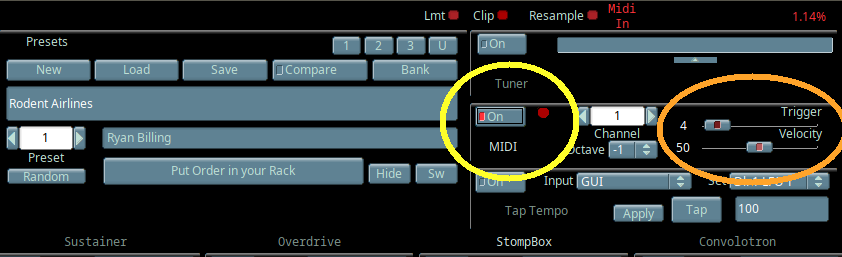
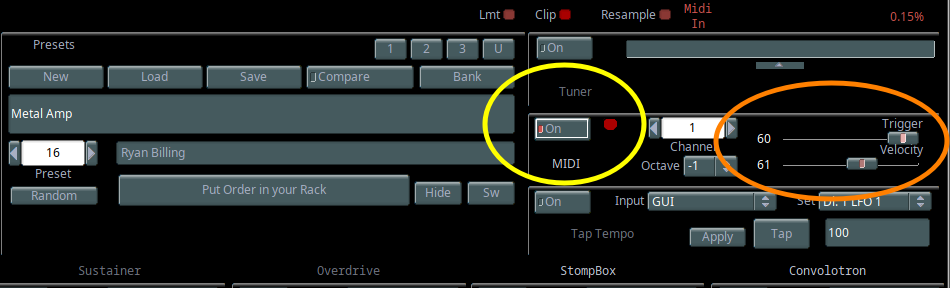
Update

diff --git a/doc/help/haiku.html b/doc/help/haiku.html
@@ -17,50 +17,36 @@
 
 <h2>Haiku Hardware / MIDI / MISC Settings</h2>
 
-<p>Rakarrack Haiku offers the user the option to set Sample Rate (Hz) and
-Buffer Size (Frames).  These settings work optimally if realtime audio is enabled. 
+<p>Rakarrack for Haiku auto detects the users frequency and automatically applies the correct Buffer Size (Frames) inside rakarrack on first run. <br>
+However, for the best experience with rakarrack on Haiku, real-time audio should be enabled and a frequency of 48khz or lower.<br>
+Setting a frequency higher than 48khz will still work in some cases, but some effects like reverb are currently known to crash rakarrack.<br>
 To enable realtime audio, you would first check if your audio card has a settings file
 that is applicable for setting realtime audio, then edit it and put in /boot/home/config/settings/kernel/drivers </p>
-<p><img src="imagenes/screenshot4.png" alt="rakarrack Order Window" align="middle" border="1" height="484" width="600"></p>
 
 <p> You can visit <a target="_BLANK" href="https://github.com/haiku/haiku/tree/master/src/add-ons/kernel/drivers/audio">https://github.com/haiku/haiku/tree/master/src/add-ons/kernel/drivers/audio</a>
 to check if your audio card has an applicable realtime settings file.</p>
 
+
+Alternatively, you can use this app I made for Haiku that detects your audio driver and if it supports real-time audio it adds the settings file for you.<br>
+It is found here: <a href="https://github.com/ablyssx74/RealTimeGUI/releases" TARGET=_BLANK>https://github.com/ablyssx74/RealTimeGUI/releases</a>
+
+<p><img src="imagenes/screenshot4.png" alt="rakarrack Order Window" align="middle" border="1" height="484" width="600"></p>
+
+
+
 <p>To enable realtime audio for an HDA driver, the settings file would look similar to this:</p>
 <pre>
-# Settings file for the HDA driver
-#
-#  This file should be moved to the directory
-#  ~/config/settings/kernel/drivers/
-#  Uncomment and edit any of the setting lines you wish to set.
-#  The values shown are just the defaults.
-#  Don't uncomment any that you don't need to differ from the default.
+	# Settings file for the HDA driver
 
-#  Remember that latency will probably be at least
-#   2*buffer_frames/sample_rate
-#  For real time audio, a buffer of 1024 frames at 192000
-#  should be good (<15ms).
-#  You will need more buffers if they're small.
-#  e.g.:
-#     play_buffer_frames	1024
-#     play_buffer_count	4
+	# For 48khz this works really well
+	play_buffer_frames	128
+	play_buffer_count	4
 
-###########################################################
+	record_buffer_frames	128
+	record_buffer_count	4
 
-#play_buffer_frames	512
-#play_buffer_count	4
-
-#record_buffer_frames	512
-#record_buffer_count	4
-
-# Just uncomment this four lines and restart Media Server
-# To enable realtime audio
-
-#play_buffer_frames	1024  
-#play_buffer_count	2
- 
-#record_buffer_frames	1024
-#record_buffer_count	2
+	# If clicking a popping are heard
+	# Increase buffer_count would be first choice before changing buffer_frames	
 
 </pre>
 
@@ -72,7 +58,7 @@ to check if your audio card has an applicable realtime settings file.</p>
 <p><img src="imagenes/screenshot6.png" alt="rakarrack Order Window" align="middle" border="1" height="484" width="600"></p>
 
 <p>Once rakarrack-out is checked in MidiSynth then you would enable the MIDI playback in the main rakarrack control board ( yellow circle ).
-<p>Trigger should be kept low as seen in the orange circult.  Velocity currently does not work.</p>
+<p>Trigger should be kept high in most cases for lower sensitivity.  Velocity currently does nothing.</p>
 <p><img src="imagenes/screenshot8.png" alt="rakarrack Order Window" align="middle" border="1" height="200" width="600"></p>
 
 
@@ -90,5 +76,15 @@ to check if your audio card has an applicable realtime settings file.</p>
 <p>Rakarrack Haiku supports Online Version Checking.  New updates will show a notification if available.  
 You can toggle this option off in Misc tab menu.</p>
 <p><img src="imagenes/screenshot5.png" alt="rakarrack Order Window" align="middle" border="1" height="484" width="600"></p>
+
+<p>Rakarrack Haiku has an experimental Haiku Native version called Haikurack. <br>
+Some feature may not work and / or crash.   
+You can try Haikurack by running:</p>
+<pre>
+	# Open Terminal and type:
+	rakarrack -H
+</pre>
+<p><img src="imagenes/haikurack.png" alt="rakarrack Order Window" align="middle" border="1" height="484" width="600"></p>
 <p><a href="help.html">Table of Contents</a> -  <a href="hardware.html">Hardware Connections</a></p>
+
 </body></html>

diff --git a/src/main.C b/src/main.C
@@ -25,6 +25,7 @@
 */
 #include <app/Looper.h>
 #include <app/Application.h>
+#include <MessageQueue.h>
 
 #include <signal.h>
 #include <unistd.h>
@@ -204,17 +205,143 @@ show_help ()
 
 
 
+// A quit request delivered from outside the app -- Deskbar/
+// ProcessController's "Quit Application", a session shutdown, anything
+// that posts B_QUIT_REQUESTED straight to the app -- arrives here as
+// BApplication::QuitRequested(). A plain, un-subclassed BApplication (what
+// this used to be) has nowhere useful to send that on to: in --haiku mode
+// its default "true" answer would just let Run() return, fine, but in the
+// normal FLTK/headless path nothing ever called Run() at all, so the
+// message would sit in myApp's port forever, unread -- exactly the
+// reported bug ("It does nothing"). Subclassing lets this app's own quit
+// logic (gAppQuitting, the default per-window cascade) reach every mode
+// the normal way, through BLooper::Loop()'s own automatic dispatch, once
+// Run() is actually being called somewhere -- see AppThreadEntry() below
+// for where and why.
+//
+// sAppAlreadyQuit (checked in main()'s own final cleanup, far below) is
+// what actually makes the difference between "quit reaches the app but
+// the process then hangs forever after finishing every shutdown step" and
+// a clean exit: once this returns true, BLooper's own Quit() machinery
+// tears the BApplication down (on its own dedicated thread -- see
+// AppThreadEntry()) as part of the same dispatch that got us here, so
+// main()'s myApp pointer is stale from this point on. Touching it again
+// (Lock()/PostMessage(), which main()'s cleanup used to always do
+// unconditionally) is undefined behavior on an already-deleted BLooper --
+// confirmed the hard way, from a real terminal session that printed every
+// shutdown message through to "Shutdown complete." and then simply never
+// returned to the prompt.
+static bool sAppAlreadyQuit = false;
+
+class RakarrackApp : public BApplication {
+public:
+	RakarrackApp(const char* signature) : BApplication(signature) { }
+
+	virtual bool QuitRequested()
+	{
+		if (haiku_mode) {
+			// Native mode: RakarrackWindow, and (once created)
+			// OrderWindow, are real BWindows this app itself owns -- ask
+			// them the normal way. gAppQuitting (declared in
+			// rakarrack_haiku_bridge.h, defined in
+			// haiku_native/haiku-rakarrack.cpp) distinguishes this
+			// whole-app cascade from a user just closing OrderWindow on
+			// its own -- see its own QuitRequested() comment for why that
+			// distinction matters. Set before the default implementation
+			// below asks every window in turn.
+			gAppQuitting = true;
+			bool ok = BApplication::QuitRequested();
+			if (!ok) {
+				// Don't leave that flag set for next time, when it might
+				// genuinely just be that one window's own close button
+				// again.
+				gAppQuitting = false;
+				return false;
+			}
+		} else {
+			// FLTK/headless mode: the default per-window cascade above
+			// would also ask whatever BWindow(s) FLTK's own Haiku backend
+			// creates internally to render its window -- code outside
+			// this repository (libfltk.so.1.4.4), whose QuitRequested()
+			// behavior is opaque here, and (confirmed against a real
+			// repro) declines by default -- silently vetoing every
+			// external quit request, exactly the same failure pattern
+			// this app's own OrderWindow used to have (see its
+			// QuitRequested() comment), except in code this repository
+			// can't patch. Skipped outright: FLTK's own window lifecycle
+			// is driven entirely by its own event loop and the
+			// Fl::first_window() == NULL check in main()'s "while
+			// (Pexitprogram == 0)" loop, not by this cascade, so there's
+			// nothing meaningful to ask it anyway.
+		}
+
+		// Flips the flag the FLTK/headless "while (Pexitprogram == 0)"
+		// loop near the bottom of main() is already watching, and that
+		// the --haiku branch's wait_for_thread() call is a proxy for.
+		// This runs on this BApplication's own dedicated thread (see
+		// AppThreadEntry()), never the thread running that loop, so this
+		// plain global is the only thing connecting the two -- consistent
+		// with how the rest of this codebase already hands simple flags
+		// like this one across threads (e.g. Pexitprogram itself).
+		Pexitprogram = 1;
+		sAppAlreadyQuit = true;
+		return true;
+	}
+};
+
+// BApplication::Run() blocks the calling thread until the app quits, which
+// is exactly what the --haiku branch below used to do directly, as its
+// whole main loop -- but Run() is NOT safe to call on just any thread: it
+// must execute on the very thread that constructed the BApplication
+// (BLooper's own constructor locks the object for the constructing
+// thread, and BLooper::Loop(), which Run() calls straight into, asserts
+// the calling thread already holds that lock). An earlier version of this
+// fix constructed the object on main()'s own thread as before but spawned
+// only Run() itself on a separate thread -- confirmed the hard way, from a
+// real debug report, that this trips BLooper::AssertLocked()'s debugger
+// breakpoint and crashes the app before its window even appears.
+//
+// So constructing the object and calling Run() on it happen together, on
+// this one small dedicated thread, for the life of the app -- in every
+// mode. That frees main()'s own thread to do FLTK/headless setup and run
+// its own loop instead (FLTK/headless mode), or to just wait for this
+// thread to finish (--haiku mode, replacing its old direct Run() call --
+// see that branch below). sAppReadySem hands the constructed pointer back
+// to main() before it does anything that needs it (starting with
+// HaikuDetectAudioSettingsEarly() -- BMediaRoster needs a live
+// BApplication for rate detection); after that handoff this thread's
+// Run() takes over as the object's one and only owner, and every other
+// thread that still needs to reach it (the final cleanup's
+// PostMessage(B_QUIT_REQUESTED) included) does so the normal way, through
+// Lock()/Unlock(), same as always.
+static BApplication* sApp = nullptr;
+static sem_id sAppReadySem = -1;
+
+static int32
+AppThreadEntry(void*)
+{
+	sApp = new RakarrackApp("application/x-vnd.rakarrack-haiku");
+	release_sem(sAppReadySem);
+	sApp->Run();
+	return 0;
+}
+
 int
 main (int argc, char *argv[])
 {
 	BApplication* myApp = nullptr;
 
-	// Must happen before "RKR rkr;" below -- see
+	// See AppThreadEntry()'s own comment.
+	sAppReadySem = create_sem(0, "rakarrack app ready");
+	thread_id appThread = spawn_thread(AppThreadEntry, "RakarrackApp",
+		B_NORMAL_PRIORITY, nullptr);
+	resume_thread(appThread);
+	acquire_sem(sAppReadySem);
+	delete_sem(sAppReadySem);
+	myApp = sApp;
+
+	// Must happen after myApp exists -- see
 	// HaikuDetectAudioSettingsEarly()'s own comment in jack.C for why.
-	// BMediaRoster (used for rate detection) needs a running
-	// BApplication, so it's constructed here unconditionally now,
-	// instead of later inside the haiku_mode/FLTK branches.
-	myApp = new BApplication("application/x-vnd.rakarrack-haiku");
 	HaikuDetectAudioSettingsEarly();
 
 	RKR rkr;
@@ -277,9 +404,14 @@ main (int argc, char *argv[])
 
         
 		printf("[Rakarrack] Haiku Native Mode Started.\n");
-        myApp->Run();
+        // myApp->Run() itself now happens on its own dedicated thread --
+        // see AppThreadEntry()'s comment -- so this just blocks until
+        // that thread (and therefore the app) is done, the same as a
+        // direct Run() call here used to.
+        status_t appResult;
+        wait_for_thread(appThread, &appResult);
 
-        
+
     } else {
         // --- FLTK / Standard Path ---
 
@@ -330,6 +462,12 @@ main (int argc, char *argv[])
 
 
   // --- Haiku Main Loop ---
+  // Pexitprogram is also set from RakarrackApp::QuitRequested(), running
+  // on myApp's own dedicated thread (see AppThreadEntry()) -- an external
+  // B_QUIT_REQUESTED (Deskbar/ProcessController's "Quit Application", a
+  // session shutdown) reaches it there the normal way, through
+  // BLooper::Loop()'s automatic dispatch, since that thread really is
+  // running Run() now.
   while (Pexitprogram == 0) {
 
       if (gui) {
@@ -354,14 +492,21 @@ main (int argc, char *argv[])
     printf("[Rakarrack] loop ended. Cleaning up audio...\n");
     HaikuAudioShutdown();
     fflush(stdout);
-    if (myApp) {
+    // See sAppAlreadyQuit's own comment -- only still-alive here when
+    // Pexitprogram was set some other way (the FLTK window itself closing,
+    // via the Fl::first_window() == NULL check in the loop just above,
+    // without the app ever having been asked to quit), in which case
+    // myApp is presumed to still be alive and waiting on its own dedicated
+    // thread (AppThreadEntry()) -- nudge it to quit too before this
+    // process exits out from under it.
+    if (myApp && !sAppAlreadyQuit) {
 
         if (myApp->Lock()) {
             myApp->PostMessage(B_QUIT_REQUESTED);
             myApp->Unlock();
         }
     }
-  _exit(0); 
+  _exit(0);
 }
   
 

diff --git a/haiku_native/haiku-rakarrack.cpp b/haiku_native/haiku-rakarrack.cpp
@@ -74,6 +74,11 @@
 
 #include "../src/rakarrack_haiku_bridge.h"
 
+// See rakarrack_haiku_bridge.h's own comment on the declaration -- defined
+// here (not main.C) purely so every target that links this file, extra/'s
+// tiny utilities included, has a real definition without needing a weak
+// fallback for it too.
+bool gAppQuitting = false;
 
 // This "weak" function satisfies the linker for small utilities
 // like rakverb, but gets overridden by the real one in the main app.
@@ -856,8 +861,23 @@ public:
 	// still open was enough to trip it and take the whole app down.
 	// Hiding instead of quitting means this window is never subtracted
 	// from that count in the first place.
+	//
+	// BUT that "hide, refuse" answer must not be unconditional: it's also
+	// exactly what BApplication::QuitRequested()'s default implementation
+	// asks every window (this one included) when the app is asked to quit
+	// as a whole -- Deskbar/ProcessController's "Quit Application", a
+	// session shutdown, B_QUIT_REQUESTED sent straight to the app. Once
+	// this window has been created at all (a single "Effects Order..."
+	// click, any time in the session), answering "no" there every single
+	// time would permanently veto the whole app's shutdown from then on --
+	// which is the exact bug this fixes. gAppQuitting (see
+	// rakarrack_haiku_bridge.h) is set by RakarrackApp::QuitRequested() in
+	// main.C before that cascade runs, so this only refuses the narrower,
+	// original case: the user closing just this one window on its own.
 	virtual bool QuitRequested()
 	{
+		if (gAppQuitting)
+			return true;
 		Hide();
 		return false;
 	}

diff --git a/src/rakarrack_haiku_bridge.h b/src/rakarrack_haiku_bridge.h
@@ -20,5 +20,18 @@ void start_haiku_native_interface(void* rkr_ptr);
 }
 #endif
 
+// Set (by RakarrackApp::QuitRequested() in main.C) before the app-wide
+// quit cascade asks every window -- including native mode's OrderWindow,
+// see its own QuitRequested() override in haiku_native/haiku-rakarrack.cpp
+// -- whether it agrees to quit. Distinguishes an external/whole-app quit
+// (Deskbar/ProcessController's "Quit Application", a session shutdown,
+// B_QUIT_REQUESTED sent straight to the app) from the user just closing
+// that one window on its own, which should still only hide it. Defined in
+// haiku-rakarrack.cpp (linked into every target, including the small
+// extra/ utilities main.C itself never reaches), declared here so both
+// translation units agree on its type without needing a weak-symbol
+// fallback for it.
+extern bool gAppQuitting;
+
 #endif
 
